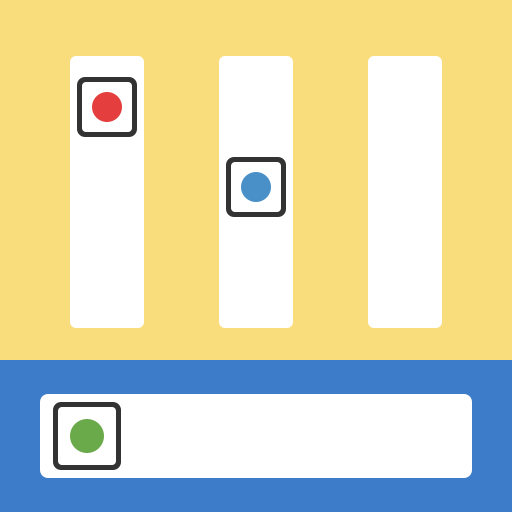
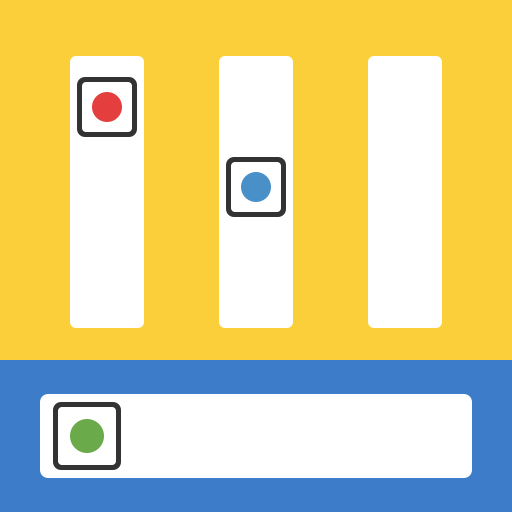
Stronger yellow, lighter tab rail, free colour for the sentence bar
Violet and blue stay available for the board; the bar colour is a new setting (default blue).

diff --git a/js/parent.js b/js/parent.js
@@ -3,7 +3,7 @@
 import {
   MAX_PAGES, MIN_STRIPS, MAX_STRIPS, ModelError,
   returnAll, addCard, updateCard, deleteCard, addPage, renamePage, movePage, deletePage,
-  setStripCount, setBackground, setStripColor, stripColor, voiceSettings, setVoice, markBackedUp, backupOverdue, allPictoIds, allMediaIds, ownPictureId, isOwnPicture, recordingId,
+  setStripCount, setBackground, setBarColor, barColor, setStripColor, stripColor, voiceSettings, setVoice, markBackedUp, backupOverdue, allPictoIds, allMediaIds, ownPictureId, isOwnPicture, recordingId,
 } from "./model.js";
 import { makeChallenge } from "./gate.js";
 import { searchPictograms, fetchPictogram, imageUrl } from "./arasaac.js";
@@ -14,7 +14,8 @@ import { pictoImg } from "./board.js";
 import { openCropper } from "./cropper.js";
 
 export const ATTRIBUTION = "Piktogramme: Sergio Palao, ARASAAC (arasaac.org), Lizenz CC BY-NC-SA 4.0";
-const SWATCHES = ["#F9DC7C", "#F6B800", "#F39200", "#E4572E", "#6BAA4B"];
+const SWATCHES = ["#FBCF3A", "#F9DC7C", "#F39200", "#E4572E", "#6BAA4B", "#4A90C8", "#6B2C91"];
+const BAR_SWATCHES = ["#3D7CC9", "#6B2C91", "#2E8B57", "#C0392B", "#E07B00", "#3A3A3A"];
 
 // ---------- Small DOM helpers ----------
 
@@ -549,25 +550,29 @@ export function openSettings(api) {
   const m = modal("Einstellungen");
   const msg = el("p", "dlg-msg");
 
-  // Background colour
-  const colours = el("div", "row swatches");
-  const current = () => api.getState().book.settings.background;
-  const picker = el("input");
-  picker.type = "color";
-  const markSwatch = () => {
-    colours.querySelectorAll(".swatch").forEach((s) => s.classList.toggle("selected", s.dataset.color === current()));
-    picker.value = current();
+  // Colour rows: a few swatches plus a free colour picker.
+  const colourRow = (swatches, current, set) => {
+    const row = el("div", "row swatches");
+    const picker = el("input");
+    picker.type = "color";
+    const mark = () => {
+      row.querySelectorAll(".swatch").forEach((s) => s.classList.toggle("selected", s.dataset.color === current()));
+      picker.value = current();
+    };
+    for (const c of swatches) {
+      const s = button("", "swatch", () => { api.update(set(api.getState().book, c)); mark(); prepare(); });
+      s.dataset.color = c;
+      s.style.background = c;
+      s.setAttribute("aria-label", "Farbe " + c);
+      row.append(s);
+    }
+    picker.addEventListener("input", () => { api.update(set(api.getState().book, picker.value.toUpperCase())); mark(); prepare(); });
+    row.append(picker);
+    mark();
+    return row;
   };
-  for (const c of SWATCHES) {
-    const s = button("", "swatch", () => { api.update(setBackground(api.getState().book, c)); markSwatch(); prepare(); });
-    s.dataset.color = c;
-    s.style.background = c;
-    s.setAttribute("aria-label", "Farbe " + c);
-    colours.append(s);
-  }
-  picker.addEventListener("input", () => { api.update(setBackground(api.getState().book, picker.value.toUpperCase())); markSwatch(); prepare(); });
-  colours.append(picker);
-  markSwatch();
+  const colours = colourRow(SWATCHES, () => api.getState().book.settings.background, setBackground);
+  const barColours = colourRow(BAR_SWATCHES, () => barColor(api.getState().book), setBarColor);
 
   // Strip count
   const strips = el("div", "row stepper");
@@ -705,7 +710,8 @@ export function openSettings(api) {
   );
 
   m.body.append(
-    el("h3", "", "Hintergrundfarbe"), colours,
+    el("h3", "", "Farbe oben"), colours,
+    el("h3", "", "Farbe unten"), barColours,
     el("h3", "", "Anzahl Streifen"), strips,
     el("h3", "", "Farbe der Klettstreifen"), stripColours,
     el("h3", "", "Stimme"), voiceBox,

diff --git a/js/model.js b/js/model.js
@@ -7,10 +7,12 @@ export const MIN_STRIPS = 1;
 export const MAX_STRIPS = 8;
 export const MAX_PAGES = 10;
 export const SENTENCE_MAX = 8;
-// Board colour of new books: soft yellow (the analogue PECS folder is orange).
-export const DEFAULT_BACKGROUND = "#F9DC7C";
-export const OLD_DEFAULT_BACKGROUND = "#F39200";
-export const PALETTE = 2;
+// Colours of new books: yellow board and blue sentence bar (the analogue PECS folder is orange and violet).
+export const DEFAULT_BACKGROUND = "#FBCF3A";
+export const DEFAULT_BAR = "#3D7CC9";
+// Earlier defaults that switch to the current one once (see startup.js).
+export const OLD_DEFAULT_BACKGROUNDS = ["#F39200", "#F9DC7C"];
+export const PALETTE = 3;
 
 export class ModelError extends Error {
   constructor(message) {
@@ -45,7 +47,7 @@ export function isOwnPicture(id) {
 export function createBook() {
   return {
     version: 1,
-    settings: { background: DEFAULT_BACKGROUND, stripCount: 4, stripColor: "white", palette: PALETTE },
+    settings: { background: DEFAULT_BACKGROUND, barColor: DEFAULT_BAR, stripCount: 4, stripColor: "white", palette: PALETTE },
     pages: [{ id: newId(), name: "Seite 1", iconPictoId: null }],
     cards: {},
     sentence: [],
@@ -209,6 +211,18 @@ export function setBackground(book, color) {
   if (book.settings.background === color) return book;
   const b = clone(book);
   b.settings.background = color;
+  return b;
+}
+
+// Books saved before this setting existed have no barColor: they get the blue bar.
+export function barColor(book) {
+  return book.settings.barColor ?? DEFAULT_BAR;
+}
+
+export function setBarColor(book, color) {
+  if (barColor(book) === color) return book;
+  const b = clone(book);
+  b.settings.barColor = color;
   return b;
 }
 

diff --git a/tests/startup.test.js b/tests/startup.test.js
@@ -29,19 +29,25 @@ test("sentence entries without a card are dropped on load", async () => {
 test("an old book with the old orange default gets the new soft yellow once", async () => {
   const stored = { pages: [{ id: "p" }], cards: {}, sentence: [], settings: { background: "#F39200" } };
   const { book } = await loadInitialBook(async () => stored, () => null);
-  assert.equal(book.settings.background, "#F9DC7C");
-  assert.equal(book.settings.palette, 2);
+  assert.equal(book.settings.background, "#FBCF3A");
+  assert.equal(book.settings.palette, 3);
 });
 
 test("an old book with a colour of its own keeps it", async () => {
   const stored = { pages: [{ id: "p" }], cards: {}, sentence: [], settings: { background: "#6BAA4B" } };
   const { book } = await loadInitialBook(async () => stored, () => null);
   assert.equal(book.settings.background, "#6BAA4B");
-  assert.equal(book.settings.palette, 2);
+  assert.equal(book.settings.palette, 3);
 });
 
 test("orange chosen after the change stays orange", async () => {
-  const stored = { pages: [{ id: "p" }], cards: {}, sentence: [], settings: { background: "#F39200", palette: 2 } };
+  const stored = { pages: [{ id: "p" }], cards: {}, sentence: [], settings: { background: "#F39200", palette: 3 } };
   const { book } = await loadInitialBook(async () => stored, () => null);
   assert.equal(book.settings.background, "#F39200");
+});
+
+test("the first soft yellow default also becomes the stronger yellow", async () => {
+  const stored = { pages: [{ id: "p" }], cards: {}, sentence: [], settings: { background: "#F9DC7C", palette: 2 } };
+  const { book } = await loadInitialBook(async () => stored, () => null);
+  assert.equal(book.settings.background, "#FBCF3A");
 });

diff --git a/tests/model.test.js b/tests/model.test.js
@@ -27,8 +27,8 @@ test("createBook: one page, defaults", () => {
   assert.equal(b.pages[0].name, "Seite 1");
   assert.equal(b.pages[0].iconPictoId, null);
   assert.equal(b.settings.stripCount, 4);
-  assert.equal(b.settings.background, "#F9DC7C");
-  assert.equal(b.settings.palette, 2);
+  assert.equal(b.settings.background, "#FBCF3A");
+  assert.equal(b.settings.palette, 3);
   assert.deepEqual(b.cards, {});
   assert.deepEqual(b.sentence, []);
   assert.equal(b.lastBackup, null);
@@ -246,4 +246,17 @@ test("cards can carry a recording; allMediaIds lists pictures and recordings", (
   assert.deepEqual(allMediaIds(b2), [5]);
   const plain = addCard(book, { pageId, strip: 0, slot: 1, word: "x", pictoId: 6 });
   assert.equal(plain.book.cards[plain.cardId].audioId, null);
+});
+
+import { barColor, setBarColor, DEFAULT_BAR } from "../js/model.js";
+
+test("the sentence bar is blue unless another colour is chosen", () => {
+  const book = createBook();
+  assert.equal(barColor(book), DEFAULT_BAR);
+  const old = structuredClone(book);
+  delete old.settings.barColor;
+  assert.equal(barColor(old), DEFAULT_BAR);
+  const violet = setBarColor(book, "#6B2C91");
+  assert.equal(barColor(violet), "#6B2C91");
+  assert.equal(barColor(book), DEFAULT_BAR);
 });

diff --git a/js/startup.js b/js/startup.js
@@ -1,4 +1,4 @@
-import { DEFAULT_BACKGROUND, OLD_DEFAULT_BACKGROUND, PALETTE } from "./model.js";
+import { DEFAULT_BACKGROUND, OLD_DEFAULT_BACKGROUNDS, PALETTE } from "./model.js";
 
 // Loads the stored book. A failed read must never be mistaken for "nothing stored",
 // otherwise a new empty book would overwrite the real one.
@@ -22,9 +22,9 @@ export async function loadInitialBook(load, create) {
   // Drop sentence entries whose card no longer exists (e.g. from an old or edited file).
   if (Array.isArray(book.sentence)) book.sentence = book.sentence.filter((id) => id in (book.cards ?? {}));
   else book.sentence = [];
-  // Once per book: the old orange default becomes the new soft yellow; own colours stay.
+  // Once per book: an earlier default colour becomes the current yellow; own colours stay.
   if (book.settings && book.settings.palette !== PALETTE) {
-    if (book.settings.background === OLD_DEFAULT_BACKGROUND) book.settings.background = DEFAULT_BACKGROUND;
+    if (OLD_DEFAULT_BACKGROUNDS.includes(book.settings.background)) book.settings.background = DEFAULT_BACKGROUND;
     book.settings.palette = PALETTE;
   }
   return { book, fresh: false };

diff --git a/css/style.css b/css/style.css
@@ -1,4 +1,4 @@
-/* Sprechbrett – colours: soft yellow board, white strips, medium blue sentence bar. */
+/* Sprechbrett – colours: yellow board, white strips, medium blue sentence bar. */
 :root {
   --board-bg: #F39200;
   --bar: #3D7CC9;
@@ -155,7 +155,9 @@ button { font: inherit; color: inherit; touch-action: manipulation; }
   flex-direction: column;
   gap: 6px;
   padding: var(--gap) 0;
-  background: rgba(0, 0, 0, .12);
+  /* A lighter shade of the board colour (darkening it turned yellow brownish). */
+  background: var(--board-bg);
+  background: color-mix(in srgb, var(--board-bg) 55%, white);
   min-height: 0;
 }
 
@@ -168,7 +170,7 @@ button { font: inherit; color: inherit; touch-action: manipulation; }
   padding: 4px 8px;
   border: none;
   border-radius: 0 12px 12px 0;
-  background: rgba(255, 255, 255, .75);
+  background: rgba(255, 255, 255, .85);
   font-weight: 700;
   font-size: 16px;
   text-align: left;

diff --git a/js/board.js b/js/board.js
@@ -2,7 +2,7 @@
 
 import {
   SLOTS_PER_STRIP, MAX_PAGES, cardAt, isOnBoard,
-  takeToSentence, moveInSentence, returnCard, returnAll, moveCard, ModelError, stripColor, voiceSettings,
+  takeToSentence, moveInSentence, returnCard, returnAll, moveCard, ModelError, stripColor, barColor, voiceSettings,
 } from "./model.js";
 import { classifyGesture } from "./gesture.js";
 import { playSentence, stopSpeaking } from "./speech.js";
@@ -118,6 +118,7 @@ function renderToolbar(state) {
 
 export function renderBoard(state) {
   document.documentElement.style.setProperty("--board-bg", state.book.settings.background);
+  document.documentElement.style.setProperty("--bar", barColor(state.book));
   document.body.classList.toggle("parent-mode", state.mode === "parent");
   document.body.classList.toggle("black-strips", stripColor(state.book) === "black");
   renderToolbar(state);

diff --git a/index.html b/index.html
@@ -5,7 +5,7 @@
 <meta name="viewport" content="width=device-width, initial-scale=1, maximum-scale=1, user-scalable=no, viewport-fit=cover">
 <title>Sprechbrett</title>
 <meta name="description" content="Kommunikationsbrett mit Bildkarten: Karten auf den Satzstreifen legen und vorlesen lassen.">
-<meta name="theme-color" content="#F9DC7C">
+<meta name="theme-color" content="#FBCF3A">
 <meta name="mobile-web-app-capable" content="yes">
 <meta name="apple-mobile-web-app-capable" content="yes">
 <meta name="apple-mobile-web-app-status-bar-style" content="black-translucent">

diff --git a/datenschutz.html b/datenschutz.html
@@ -5,7 +5,7 @@
 <meta name="viewport" content="width=device-width, initial-scale=1">
 <title>Sprechbrett – Datenschutz</title>
 <style>
-  :root { --board-bg: #F9DC7C; --bar: #3D7CC9; --ink: #222222; }
+  :root { --board-bg: #FBCF3A; --bar: #3D7CC9; --ink: #222222; }
   body { margin: 0; background: #FFFFFF; color: var(--ink);
          font: 17px/1.55 -apple-system, BlinkMacSystemFont, "Segoe UI", Roboto, sans-serif; }
   header { background: var(--board-bg); color: var(--ink); padding: 24px 16px; }

diff --git a/sw.js b/sw.js
@@ -1,6 +1,6 @@
 // Service worker: keeps the app usable offline and installable.
 // Raise VERSION whenever an app file changes, so devices load the new version.
-const VERSION = "v15";
+const VERSION = "v16";
 const APP_CACHE = "sprechbrett-app-" + VERSION;
 
 const APP_FILES = [

diff --git a/README.md b/README.md
@@ -3,9 +3,9 @@
 Ein digitales Kommunikationsbrett mit Bildkarten für das iPad, nach dem Vorbild
 eines analogen Bildkarten-Kommunikationsbuchs.
 
-- **Oben (sanftes Gelb, Farbe wählbar):** schmale senkrechte Klettstreifen (weiss oder schwarz, wie der Satzstreifen unten) mit Bildkarten. Rechts am Rand
+- **Oben (gelb, Farbe wählbar):** schmale senkrechte Klettstreifen (weiss oder schwarz, wie der Satzstreifen unten) mit Bildkarten. Rechts am Rand
   sind Register-Reiter, über die man zwischen den Seiten blättert.
-- **Unten (blau):** der Satzstreifen. Das Kind zieht Karten hierher oder
+- **Unten (blau, Farbe wählbar):** der Satzstreifen. Das Kind zieht Karten hierher oder
   tippt sie an. Die Taste links (Mund mit Sprechblase) liest den Satz von
   links nach rechts vor. Die Taste rechts mit den drei Kärtchen legt alle
   Karten zurück.
